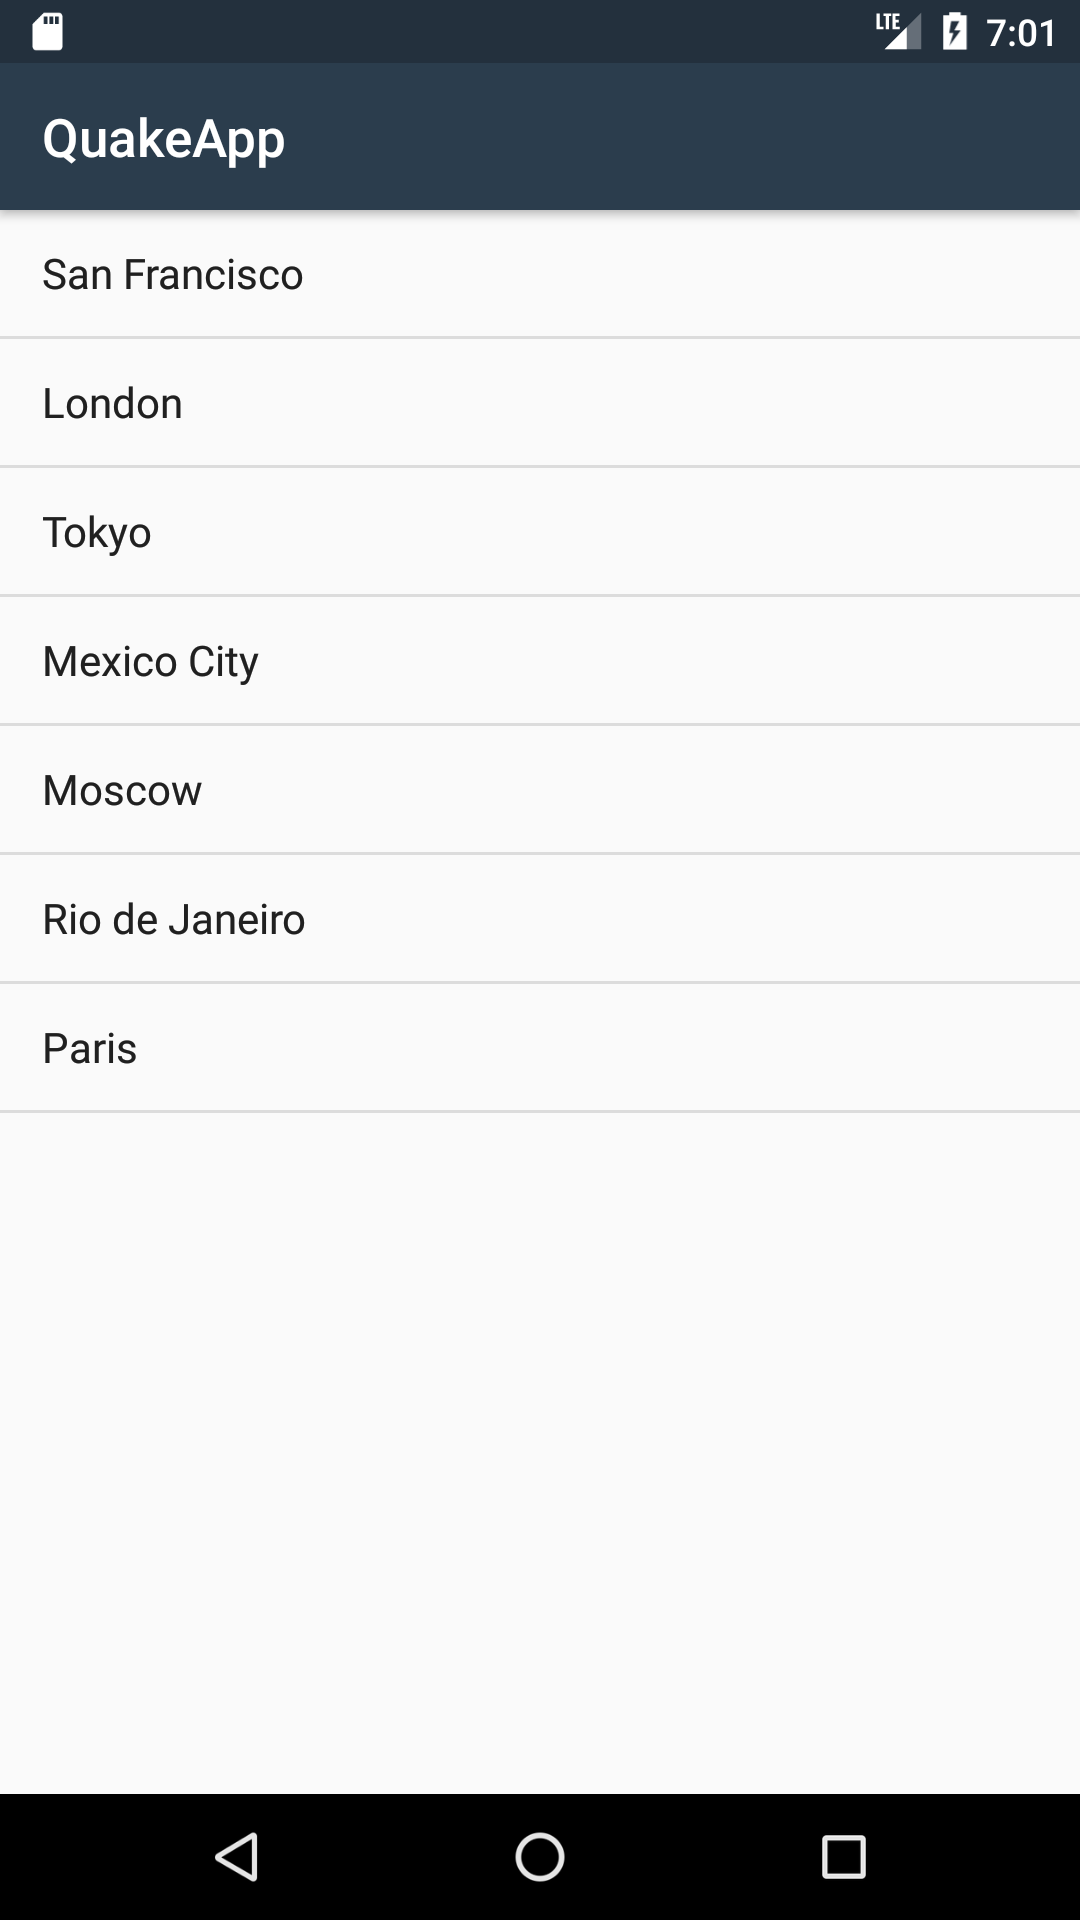
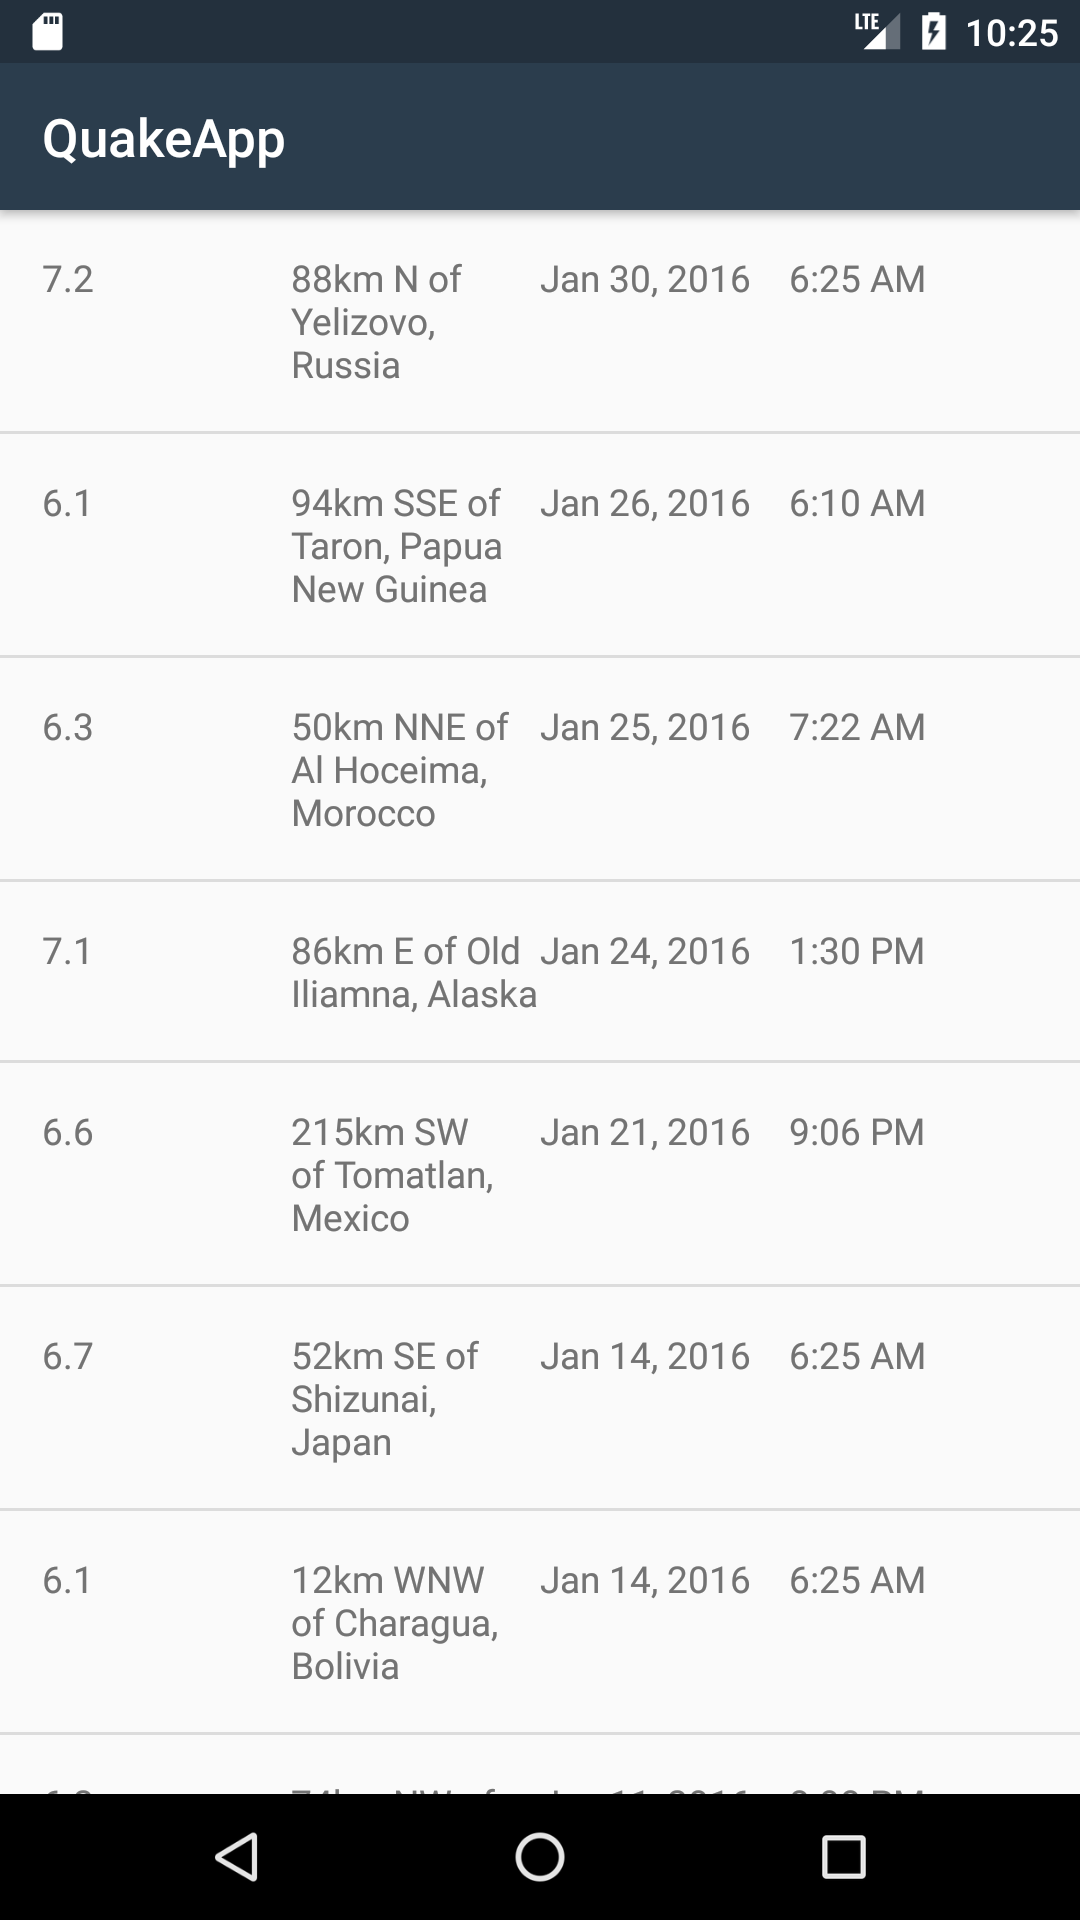
Populated UI using SAMPLE DATA

diff --git a/app/src/main/java/com/stevenmwesigwa/android/quakeapp/QueryUtils.java b/app/src/main/java/com/stevenmwesigwa/android/quakeapp/QueryUtils.java
@@ -1,0 +1,97 @@
+package com.stevenmwesigwa.android.quakeapp;
+
+import android.util.Log;
+
+import org.json.JSONException;
+
+import java.util.ArrayList;
+import android.util.Log;
+
+import org.json.JSONArray;
+import org.json.JSONException;
+import org.json.JSONObject;
+import java.text.SimpleDateFormat;
+import java.util.Date;
+
+import java.util.ArrayList;
+
+    /**
+     * Helper methods related to requesting and receiving earthquake data from USGS.
+     */
+    public final class QueryUtils {
+
+        /** Sample JSON response for a USGS query */
+        private static final String SAMPLE_JSON_RESPONSE = "{\"type\":\"FeatureCollection\",\"metadata\":{\"generated\":1462295443000,\"url\":\"http://earthquake.usgs.gov/fdsnws/event/1/query?format=geojson&starttime=2016-01-01&endtime=2016-01-31&minmag=6&limit=10\",\"title\":\"USGS Earthquakes\",\"status\":200,\"api\":\"1.5.2\",\"limit\":10,\"offset\":1,\"count\":10},\"features\":[{\"type\":\"Feature\",\"properties\":{\"mag\":7.2,\"place\":\"88km N of Yelizovo, Russia\",\"time\":1454124312220,\"updated\":1460674294040,\"tz\":720,\"url\":\"http://earthquake.usgs.gov/earthquakes/eventpage/us20004vvx\",\"detail\":\"http://earthquake.usgs.gov/fdsnws/event/1/query?eventid=us20004vvx&format=geojson\",\"felt\":2,\"cdi\":3.4,\"mmi\":5.82,\"alert\":\"green\",\"status\":\"reviewed\",\"tsunami\":1,\"sig\":798,\"net\":\"us\",\"code\":\"20004vvx\",\"ids\":\",at00o1qxho,pt16030050,us20004vvx,gcmt20160130032510,\",\"sources\":\",at,pt,us,gcmt,\",\"types\":\",cap,dyfi,finite-fault,general-link,general-text,geoserve,impact-link,impact-text,losspager,moment-tensor,nearby-cities,origin,phase-data,shakemap,tectonic-summary,\",\"nst\":null,\"dmin\":0.958,\"rms\":1.19,\"gap\":17,\"magType\":\"mww\",\"type\":\"earthquake\",\"title\":\"M 7.2 - 88km N of Yelizovo, Russia\"},\"geometry\":{\"type\":\"Point\",\"coordinates\":[158.5463,53.9776,177]},\"id\":\"us20004vvx\"},\n" +
+                "{\"type\":\"Feature\",\"properties\":{\"mag\":6.1,\"place\":\"94km SSE of Taron, Papua New Guinea\",\"time\":1453777820750,\"updated\":1460156775040,\"tz\":600,\"url\":\"http://earthquake.usgs.gov/earthquakes/eventpage/us20004uks\",\"detail\":\"http://earthquake.usgs.gov/fdsnws/event/1/query?eventid=us20004uks&format=geojson\",\"felt\":null,\"cdi\":null,\"mmi\":4.1,\"alert\":\"green\",\"status\":\"reviewed\",\"tsunami\":1,\"sig\":572,\"net\":\"us\",\"code\":\"20004uks\",\"ids\":\",us20004uks,gcmt20160126031023,\",\"sources\":\",us,gcmt,\",\"types\":\",cap,geoserve,losspager,moment-tensor,nearby-cities,origin,phase-data,shakemap,tectonic-summary,\",\"nst\":null,\"dmin\":1.537,\"rms\":0.74,\"gap\":25,\"magType\":\"mww\",\"type\":\"earthquake\",\"title\":\"M 6.1 - 94km SSE of Taron, Papua New Guinea\"},\"geometry\":{\"type\":\"Point\",\"coordinates\":[153.2454,-5.2952,26]},\"id\":\"us20004uks\"},\n" +
+                "{\"type\":\"Feature\",\"properties\":{\"mag\":6.3,\"place\":\"50km NNE of Al Hoceima, Morocco\",\"time\":1453695722730,\"updated\":1460156773040,\"tz\":0,\"url\":\"http://earthquake.usgs.gov/earthquakes/eventpage/us10004gy9\",\"detail\":\"http://earthquake.usgs.gov/fdsnws/event/1/query?eventid=us10004gy9&format=geojson\",\"felt\":117,\"cdi\":7.2,\"mmi\":5.28,\"alert\":\"green\",\"status\":\"reviewed\",\"tsunami\":0,\"sig\":695,\"net\":\"us\",\"code\":\"10004gy9\",\"ids\":\",us10004gy9,gcmt20160125042203,\",\"sources\":\",us,gcmt,\",\"types\":\",cap,dyfi,geoserve,impact-text,losspager,moment-tensor,nearby-cities,origin,phase-data,shakemap,tectonic-summary,\",\"nst\":null,\"dmin\":2.201,\"rms\":0.92,\"gap\":20,\"magType\":\"mww\",\"type\":\"earthquake\",\"title\":\"M 6.3 - 50km NNE of Al Hoceima, Morocco\"},\"geometry\":{\"type\":\"Point\",\"coordinates\":[-3.6818,35.6493,12]},\"id\":\"us10004gy9\"},\n" +
+                "{\"type\":\"Feature\",\"properties\":{\"mag\":7.1,\"place\":\"86km E of Old Iliamna, Alaska\",\"time\":1453631430230,\"updated\":1460156770040,\"tz\":-540,\"url\":\"http://earthquake.usgs.gov/earthquakes/eventpage/us10004gqp\",\"detail\":\"http://earthquake.usgs.gov/fdsnws/event/1/query?eventid=us10004gqp&format=geojson\",\"felt\":1816,\"cdi\":7.2,\"mmi\":6.6,\"alert\":\"green\",\"status\":\"reviewed\",\"tsunami\":1,\"sig\":1496,\"net\":\"us\",\"code\":\"10004gqp\",\"ids\":\",at00o1gd6r,us10004gqp,ak12496371,gcmt20160124103030,\",\"sources\":\",at,us,ak,gcmt,\",\"types\":\",cap,dyfi,finite-fault,general-link,general-text,geoserve,impact-link,impact-text,losspager,moment-tensor,nearby-cities,origin,phase-data,shakemap,tectonic-summary,trump-origin,\",\"nst\":null,\"dmin\":0.72,\"rms\":2.11,\"gap\":19,\"magType\":\"mww\",\"type\":\"earthquake\",\"title\":\"M 7.1 - 86km E of Old Iliamna, Alaska\"},\"geometry\":{\"type\":\"Point\",\"coordinates\":[-153.4051,59.6363,129]},\"id\":\"us10004gqp\"},\n" +
+                "{\"type\":\"Feature\",\"properties\":{\"mag\":6.6,\"place\":\"215km SW of Tomatlan, Mexico\",\"time\":1453399617650,\"updated\":1459963829040,\"tz\":-420,\"url\":\"http://earthquake.usgs.gov/earthquakes/eventpage/us10004g4l\",\"detail\":\"http://earthquake.usgs.gov/fdsnws/event/1/query?eventid=us10004g4l&format=geojson\",\"felt\":11,\"cdi\":2.7,\"mmi\":3.92,\"alert\":\"green\",\"status\":\"reviewed\",\"tsunami\":1,\"sig\":673,\"net\":\"us\",\"code\":\"10004g4l\",\"ids\":\",at00o1bebo,pt16021050,us10004g4l,gcmt20160121180659,\",\"sources\":\",at,pt,us,gcmt,\",\"types\":\",cap,dyfi,geoserve,impact-link,impact-text,losspager,moment-tensor,nearby-cities,origin,phase-data,shakemap,tectonic-summary,\",\"nst\":null,\"dmin\":2.413,\"rms\":0.98,\"gap\":74,\"magType\":\"mww\",\"type\":\"earthquake\",\"title\":\"M 6.6 - 215km SW of Tomatlan, Mexico\"},\"geometry\":{\"type\":\"Point\",\"coordinates\":[-106.9337,18.8239,10]},\"id\":\"us10004g4l\"},\n" +
+                "{\"type\":\"Feature\",\"properties\":{\"mag\":6.7,\"place\":\"52km SE of Shizunai, Japan\",\"time\":1452741933640,\"updated\":1459304879040,\"tz\":540,\"url\":\"http://earthquake.usgs.gov/earthquakes/eventpage/us10004ebx\",\"detail\":\"http://earthquake.usgs.gov/fdsnws/event/1/query?eventid=us10004ebx&format=geojson\",\"felt\":51,\"cdi\":5.8,\"mmi\":6.45,\"alert\":\"green\",\"status\":\"reviewed\",\"tsunami\":1,\"sig\":720,\"net\":\"us\",\"code\":\"10004ebx\",\"ids\":\",us10004ebx,pt16014050,at00o0xauk,gcmt20160114032534,\",\"sources\":\",us,pt,at,gcmt,\",\"types\":\",associate,cap,dyfi,geoserve,impact-link,impact-text,losspager,moment-tensor,nearby-cities,origin,phase-data,shakemap,\",\"nst\":null,\"dmin\":0.281,\"rms\":0.98,\"gap\":22,\"magType\":\"mww\",\"type\":\"earthquake\",\"title\":\"M 6.7 - 52km SE of Shizunai, Japan\"},\"geometry\":{\"type\":\"Point\",\"coordinates\":[142.781,41.9723,46]},\"id\":\"us10004ebx\"},\n" +
+                "{\"type\":\"Feature\",\"properties\":{\"mag\":6.1,\"place\":\"12km WNW of Charagua, Bolivia\",\"time\":1452741928270,\"updated\":1459304879040,\"tz\":-240,\"url\":\"http://earthquake.usgs.gov/earthquakes/eventpage/us10004ebw\",\"detail\":\"http://earthquake.usgs.gov/fdsnws/event/1/query?eventid=us10004ebw&format=geojson\",\"felt\":3,\"cdi\":2.2,\"mmi\":2.21,\"alert\":\"green\",\"status\":\"reviewed\",\"tsunami\":0,\"sig\":573,\"net\":\"us\",\"code\":\"10004ebw\",\"ids\":\",us10004ebw,gcmt20160114032528,\",\"sources\":\",us,gcmt,\",\"types\":\",cap,dyfi,geoserve,impact-text,losspager,moment-tensor,nearby-cities,origin,phase-data,shakemap,tectonic-summary,\",\"nst\":null,\"dmin\":5.492,\"rms\":1.04,\"gap\":16,\"magType\":\"mww\",\"type\":\"earthquake\",\"title\":\"M 6.1 - 12km WNW of Charagua, Bolivia\"},\"geometry\":{\"type\":\"Point\",\"coordinates\":[-63.3288,-19.7597,582.56]},\"id\":\"us10004ebw\"},\n" +
+                "{\"type\":\"Feature\",\"properties\":{\"mag\":6.2,\"place\":\"74km NW of Rumoi, Japan\",\"time\":1452532083920,\"updated\":1459304875040,\"tz\":540,\"url\":\"http://earthquake.usgs.gov/earthquakes/eventpage/us10004djn\",\"detail\":\"http://earthquake.usgs.gov/fdsnws/event/1/query?eventid=us10004djn&format=geojson\",\"felt\":8,\"cdi\":3.4,\"mmi\":3.74,\"alert\":\"green\",\"status\":\"reviewed\",\"tsunami\":0,\"sig\":594,\"net\":\"us\",\"code\":\"10004djn\",\"ids\":\",us10004djn,gcmt20160111170803,\",\"sources\":\",us,gcmt,\",\"types\":\",cap,dyfi,geoserve,impact-text,losspager,moment-tensor,nearby-cities,origin,phase-data,shakemap,tectonic-summary,\",\"nst\":null,\"dmin\":1.139,\"rms\":0.96,\"gap\":33,\"magType\":\"mww\",\"type\":\"earthquake\",\"title\":\"M 6.2 - 74km NW of Rumoi, Japan\"},\"geometry\":{\"type\":\"Point\",\"coordinates\":[141.0867,44.4761,238.81]},\"id\":\"us10004djn\"},\n" +
+                "{\"type\":\"Feature\",\"properties\":{\"mag\":6.5,\"place\":\"227km SE of Sarangani, Philippines\",\"time\":1452530285900,\"updated\":1459304874040,\"tz\":480,\"url\":\"http://earthquake.usgs.gov/earthquakes/eventpage/us10004dj5\",\"detail\":\"http://earthquake.usgs.gov/fdsnws/event/1/query?eventid=us10004dj5&format=geojson\",\"felt\":1,\"cdi\":2.7,\"mmi\":7.5,\"alert\":\"green\",\"status\":\"reviewed\",\"tsunami\":1,\"sig\":650,\"net\":\"us\",\"code\":\"10004dj5\",\"ids\":\",at00o0srjp,pt16011050,us10004dj5,gcmt20160111163807,\",\"sources\":\",at,pt,us,gcmt,\",\"types\":\",cap,dyfi,geoserve,impact-link,impact-text,losspager,moment-tensor,nearby-cities,origin,phase-data,shakemap,tectonic-summary,\",\"nst\":null,\"dmin\":3.144,\"rms\":0.72,\"gap\":22,\"magType\":\"mww\",\"type\":\"earthquake\",\"title\":\"M 6.5 - 227km SE of Sarangani, Philippines\"},\"geometry\":{\"type\":\"Point\",\"coordinates\":[126.8621,3.8965,13]},\"id\":\"us10004dj5\"},\n" +
+                "{\"type\":\"Feature\",\"properties\":{\"mag\":6,\"place\":\"Pacific-Antarctic Ridge\",\"time\":1451986454620,\"updated\":1459202978040,\"tz\":-540,\"url\":\"http://earthquake.usgs.gov/earthquakes/eventpage/us10004bgk\",\"detail\":\"http://earthquake.usgs.gov/fdsnws/event/1/query?eventid=us10004bgk&format=geojson\",\"felt\":0,\"cdi\":1,\"mmi\":0,\"alert\":\"green\",\"status\":\"reviewed\",\"tsunami\":0,\"sig\":554,\"net\":\"us\",\"code\":\"10004bgk\",\"ids\":\",us10004bgk,gcmt20160105093415,\",\"sources\":\",us,gcmt,\",\"types\":\",cap,dyfi,geoserve,losspager,moment-tensor,nearby-cities,origin,phase-data,shakemap,\",\"nst\":null,\"dmin\":30.75,\"rms\":0.67,\"gap\":71,\"magType\":\"mww\",\"type\":\"earthquake\",\"title\":\"M 6.0 - Pacific-Antarctic Ridge\"},\"geometry\":{\"type\":\"Point\",\"coordinates\":[-136.2603,-54.2906,10]},\"id\":\"us10004bgk\"}],\"bbox\":[-153.4051,-54.2906,10,158.5463,59.6363,582.56]}";
+
+        /**
+         * Create a private constructor because no one should ever create a {@link QueryUtils} object.
+         * This class is only meant to hold static variables and methods, which can be accessed
+         * directly from the class name QueryUtils (and an object instance of QueryUtils is not needed).
+         */
+        private QueryUtils() {
+        }
+
+        /**
+         * Return a list of {@link Earthquake} objects that has been built up from
+         * parsing a JSON response.
+         */
+        public static ArrayList<Earthquake> extractEarthquakes() {
+
+            // Create an empty ArrayList that we can start adding earthquakes to
+            ArrayList<Earthquake> earthquakes = new ArrayList<>();
+
+            // Try to parse the SAMPLE_JSON_RESPONSE. If there's a problem with the way the JSON
+            // is formatted, a JSONException exception object will be thrown.
+            // Catch the exception so the app doesn't crash, and print the error message to the logs.
+            try {
+
+                JSONObject baseJsonResponse= new JSONObject(SAMPLE_JSON_RESPONSE);
+//extract jsonArray associated with the key called "features"
+//which represent list of features or (earthquakes)
+                JSONArray earthquakeArray= baseJsonResponse.getJSONArray("features");
+//for each earthquake in the earthquakeArray create an {@ link earthquake} object
+// Loop through each feature in the array
+                for(int i=0; i<earthquakeArray.length();i++){
+//all our code in the loop
+// Get earthquake JSONObject at position i
+                    JSONObject currentEarthquake= earthquakeArray.getJSONObject(i);
+// Get “properties” JSONObject
+                    JSONObject properties= currentEarthquake.getJSONObject("properties");
+// Extract “mag” for magnitude
+                    String magnitude= properties.getString("mag");
+// Extract “place” for location
+                    String location= properties.getString("place");
+// Extract “time” for time
+// Create Earthquake java object from magnitude, location, and time
+                    Date dateObject = new Date(properties.getLong("time"));
+                    SimpleDateFormat dateFormatter = new SimpleDateFormat("MMM DD, yyyy");
+                    String date = dateFormatter.format(dateObject);
+
+//                    SimpleDateFormat timeFormatter = new SimpleDateFormat("HH:MM");
+                    long time = properties.getLong("time");
+                    Earthquake earthquake=new Earthquake(magnitude,location,date, time);
+// Add earthquake to list of earthquakes
+                    earthquakes.add(earthquake);
+                }
+
+            } catch (JSONException e) {
+                // If an error is thrown when executing any of the above statements in the "try" block,
+                // catch the exception here, so the app doesn't crash. Print a log message
+                // with the message from the exception.
+                Log.e("QueryUtils", "Problem parsing the earthquake JSON results", e);
+            }
+
+            // Return the list of earthquakes
+            return earthquakes;
+        }
+
+    }

diff --git a/app/src/main/java/com/stevenmwesigwa/android/quakeapp/EarthquakeAdapter.java b/app/src/main/java/com/stevenmwesigwa/android/quakeapp/EarthquakeAdapter.java
@@ -1,0 +1,98 @@
+package com.stevenmwesigwa.android.quakeapp;
+
+import android.content.Context;
+import android.graphics.drawable.GradientDrawable;
+import android.support.annotation.NonNull;
+import android.support.annotation.Nullable;
+import android.support.v4.content.ContextCompat;
+import android.view.LayoutInflater;
+import android.view.View;
+import android.view.ViewGroup;
+import android.widget.ArrayAdapter;
+import android.widget.TextView;
+
+import java.text.DecimalFormat;
+import java.text.SimpleDateFormat;
+import java.util.Date;
+import java.util.List;
+
+public class EarthquakeAdapter extends ArrayAdapter<Earthquake> {
+
+    /**
+     * The part of the location string from the USGS service that we use to determine
+     * whether or not there is a location offset present ("5km N of Cairo, Egypt").
+     */
+    private static final String LOCATION_SEPARATOR = " of ";
+
+
+    /**
+     * Constructs a new {@link EarthquakeAdapter}.
+     *
+     * @param context of the app
+     * @param earthquakes is the list of earthquakes, which is the data source of the adapter
+     */
+    public EarthquakeAdapter(Context context, List<Earthquake> earthquakes) {
+        super(context, 0, earthquakes);
+    }
+
+    /**
+     * Return the formatted date string (i.e. "Mar 3, 1984") from a Date object.
+     */
+    private String formatDate(Date dateObject) {
+        SimpleDateFormat dateFormat = new SimpleDateFormat("LLL dd, yyyy");
+        return dateFormat.format(dateObject);
+    }
+
+    /**
+     * Return the formatted date string (i.e. "4:30 PM") from a Date object.
+     */
+    private String formatTime(Date dateObject) {
+        SimpleDateFormat timeFormat = new SimpleDateFormat("h:mm a");
+        return timeFormat.format(dateObject);
+    }
+
+    @NonNull
+    @Override
+    public View getView(int position, View convertView, ViewGroup parent) {
+        // Check if there is an existing list item view (called convertView) that we can reuse,
+        // otherwise, if convertView is null, then inflate a new list item layout.
+        View listItemView = convertView;
+        if (listItemView == null) {
+            listItemView = LayoutInflater.from(getContext()).inflate(
+                    R.layout.earthquake_list_item, parent, false);
+        }
+
+        // Find the earthquake at the given position in the list of earthquakes
+        Earthquake currentEarthquake = getItem(position);
+
+        // Find the TextView with view ID magnitude
+        TextView magnitudeView = (TextView) listItemView.findViewById(R.id.magnitude);
+        // Display the magnitude of the current earthquake in that TextView
+        magnitudeView.setText(currentEarthquake.getMagnitude());
+
+        // Find the TextView with view ID location
+        TextView locationView = (TextView) listItemView.findViewById(R.id.location);
+        // Display the location of the current earthquake in that TextView
+        locationView.setText(currentEarthquake.getLocation());
+
+        // Create a new Date object from the time in milliseconds of the earthquake
+        Date dateObject = new Date(currentEarthquake.getTimeInMilliseconds());
+
+        // Find the TextView with view ID date
+        TextView dateView = (TextView) listItemView.findViewById(R.id.date);
+        // Format the date string (i.e. "Mar 3, 1984")
+        String formattedDate = formatDate(dateObject);
+        // Display the date of the current earthquake in that TextView
+        dateView.setText(formattedDate);
+
+        // Find the TextView with view ID time
+        TextView timeView = (TextView) listItemView.findViewById(R.id.time);
+        // Format the time string (i.e. "4:30PM")
+        String formattedTime = formatTime(dateObject);
+        // Display the time of the current earthquake in that TextView
+        timeView.setText(formattedTime);
+
+        // Return the list item view that is now showing the appropriate data
+        return listItemView;
+    }
+}

diff --git a/app/src/main/java/com/stevenmwesigwa/android/quakeapp/Earthquake.java b/app/src/main/java/com/stevenmwesigwa/android/quakeapp/Earthquake.java
@@ -1,0 +1,53 @@
+package com.stevenmwesigwa.android.quakeapp;
+/**
+ * An {@link Earthquake} object contains information related to a single earthquake.
+ */
+public class Earthquake {
+
+    /**
+     * Magnitude of the earthquake
+     */
+    private String mMagnitude;
+
+    /**
+     * Location of the earthquake
+     */
+    private String mLocation;
+
+
+
+    /** Date of the earthquake */
+    private String mDate;
+
+
+    /** Time of the earthquake */
+    private long mTimeInMilliseconds;
+
+    /** Website URL of the earthquake */
+    private String mUrl;
+
+
+    public Earthquake(String mMagnitude, String mLocation, String mDate, long timeInMilliseconds) {
+        this.mMagnitude = mMagnitude;
+        this.mLocation = mLocation;
+        this.mDate = mDate;
+        mTimeInMilliseconds = timeInMilliseconds;
+    }
+
+    public String getMagnitude() {
+        return mMagnitude;
+    }
+
+    public String getLocation() {
+        return mLocation;
+    }
+
+    public String getDate() {
+        return mDate;
+    } /**
+     * Returns the time of the earthquake.
+     */
+    public long getTimeInMilliseconds() {
+        return mTimeInMilliseconds;
+    }
+}

diff --git a/app/src/main/java/com/stevenmwesigwa/android/quakeapp/EarthquakeActivity.java b/app/src/main/java/com/stevenmwesigwa/android/quakeapp/EarthquakeActivity.java
@@ -32,21 +32,14 @@ public class EarthquakeActivity extends AppCompatActivity {
         setContentView(R.layout.earthquake_activity);
 
         // Create a fake list of earthquake locations.
-        ArrayList<String> earthquakes = new ArrayList<>();
-        earthquakes.add("San Francisco");
-        earthquakes.add("London");
-        earthquakes.add("Tokyo");
-        earthquakes.add("Mexico City");
-        earthquakes.add("Moscow");
-        earthquakes.add("Rio de Janeiro");
-        earthquakes.add("Paris");
+        ArrayList<Earthquake> earthquakes = QueryUtils.extractEarthquakes();
 
         // Find a reference to the {@link ListView} in the layout
         ListView earthquakeListView = (ListView) findViewById(R.id.list);
 
         // Create a new {@link ArrayAdapter} of earthquakes
-        ArrayAdapter<String> adapter = new ArrayAdapter<String>(
-                this, android.R.layout.simple_list_item_1, earthquakes);
+        EarthquakeAdapter adapter = new EarthquakeAdapter(
+                this,  earthquakes);
 
         // Set the adapter on the {@link ListView}
         // so the list can be populated in the user interface
